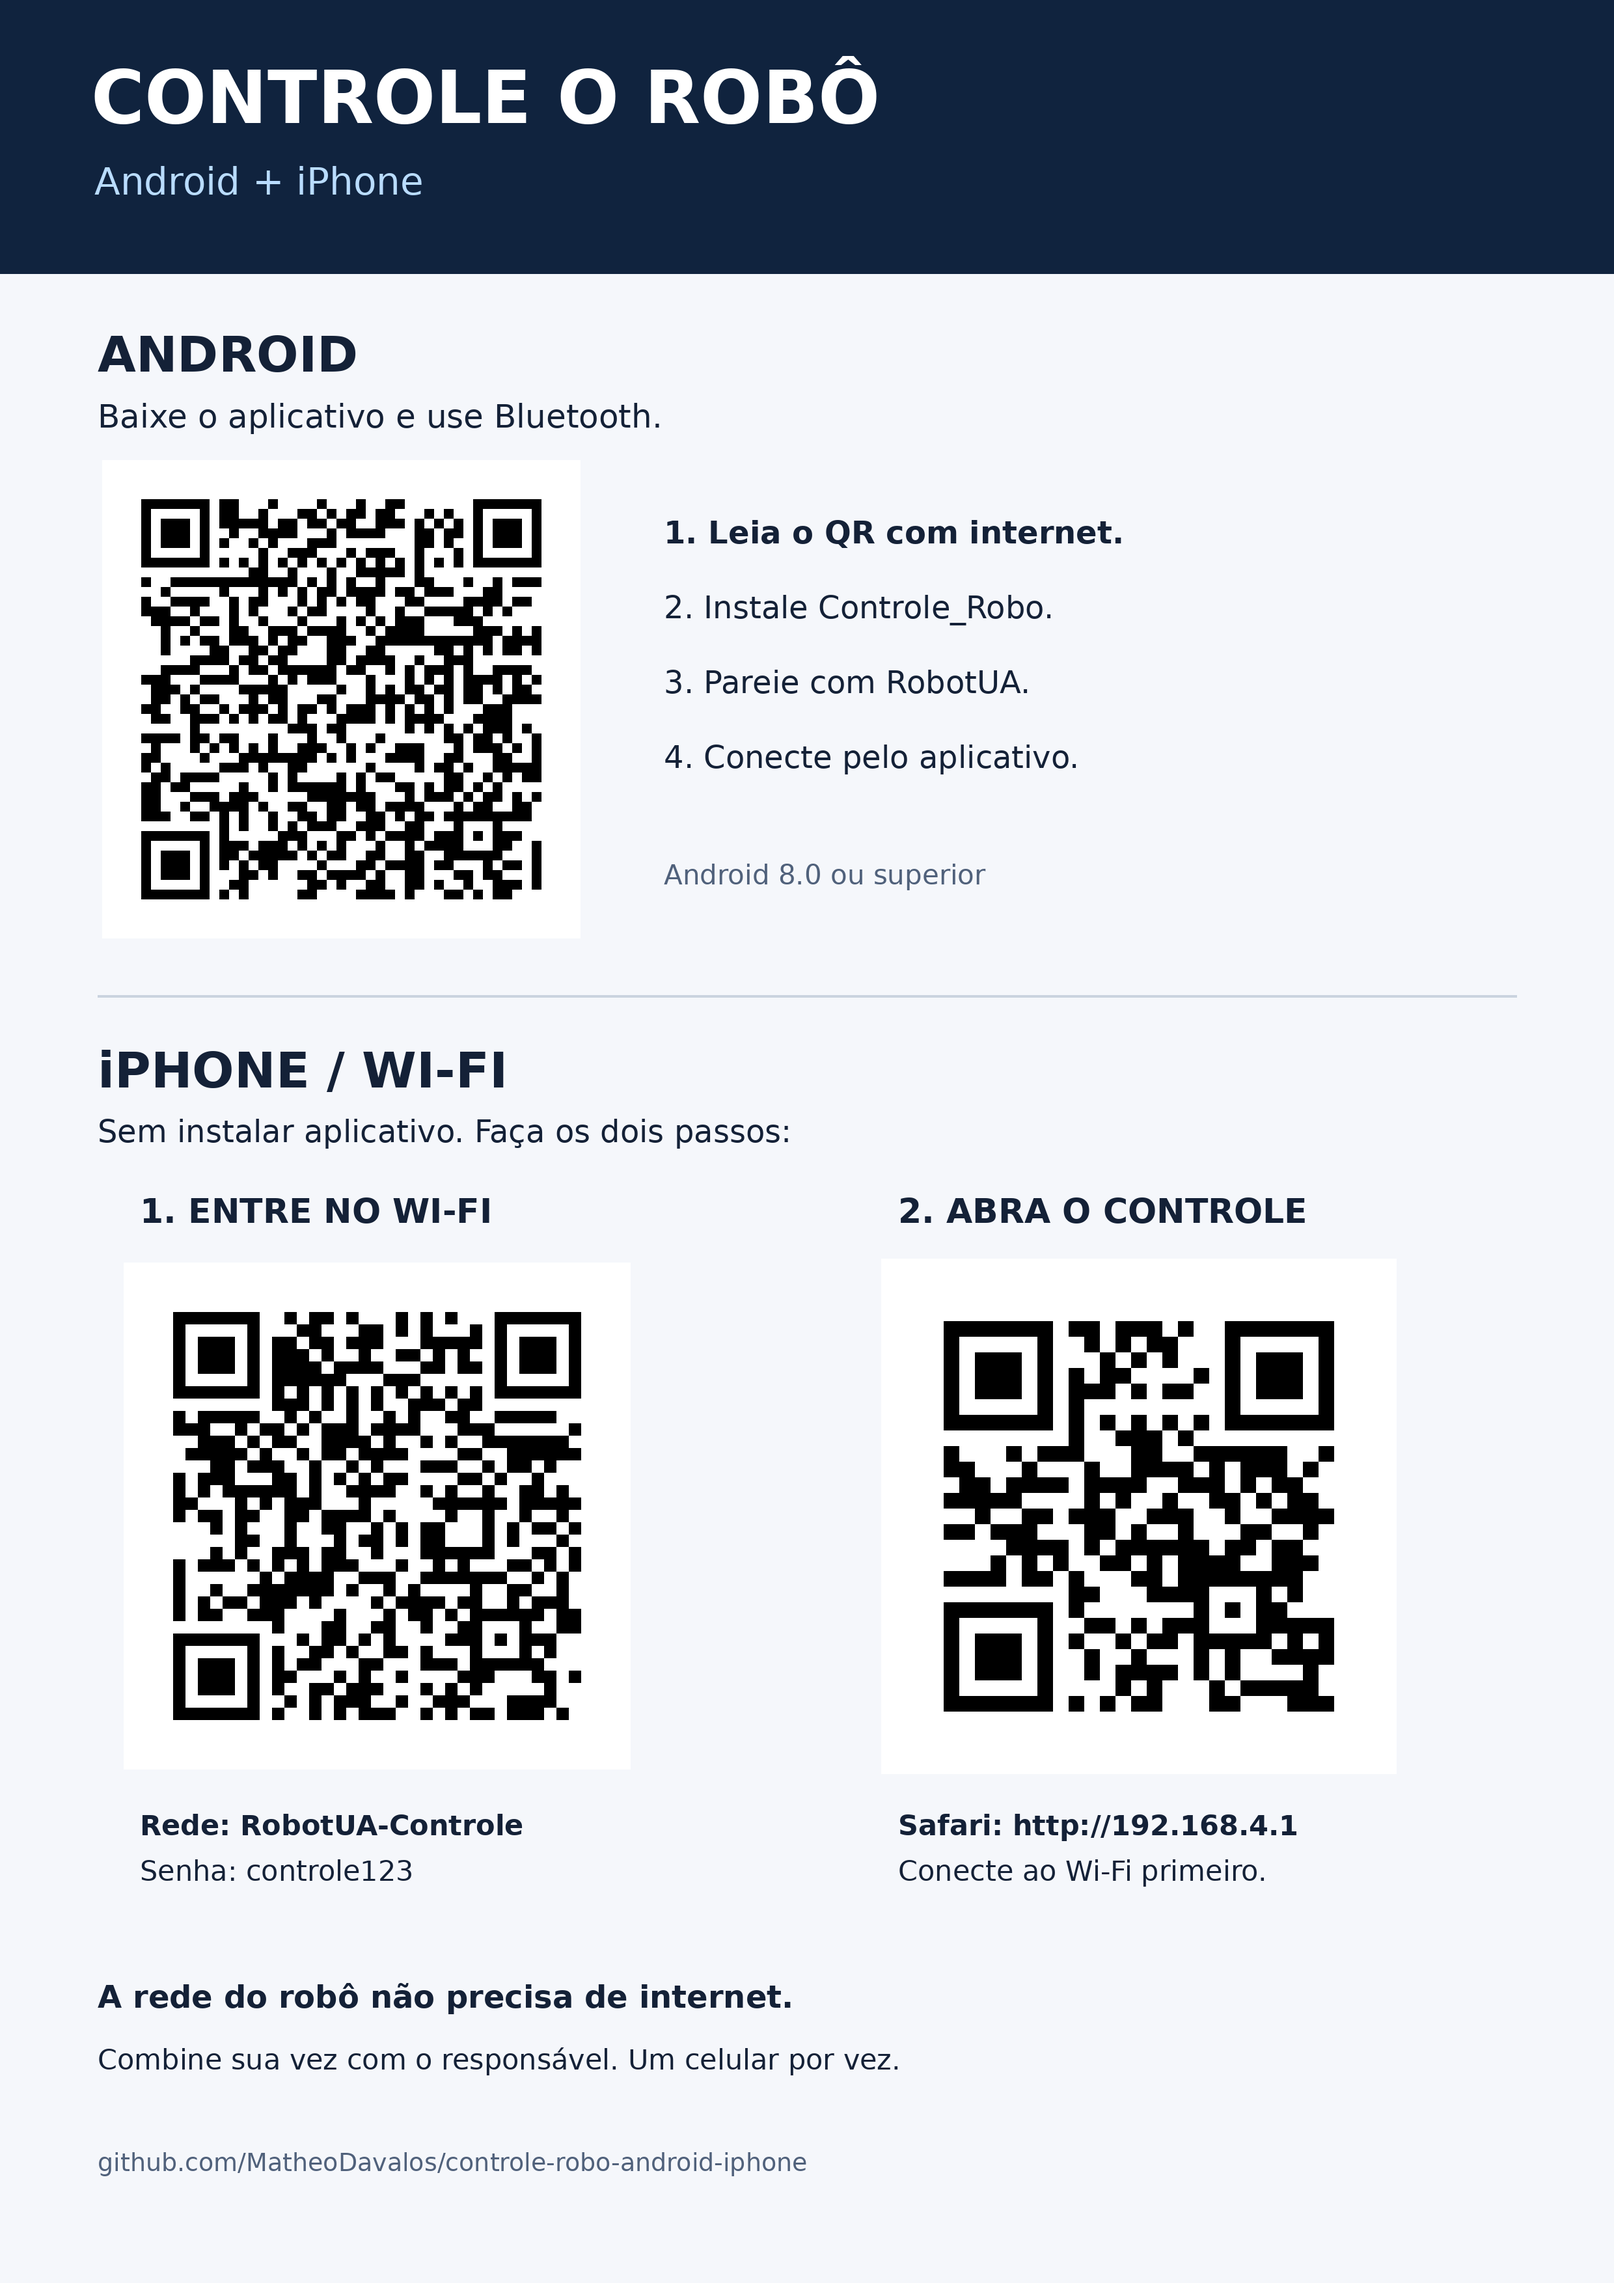
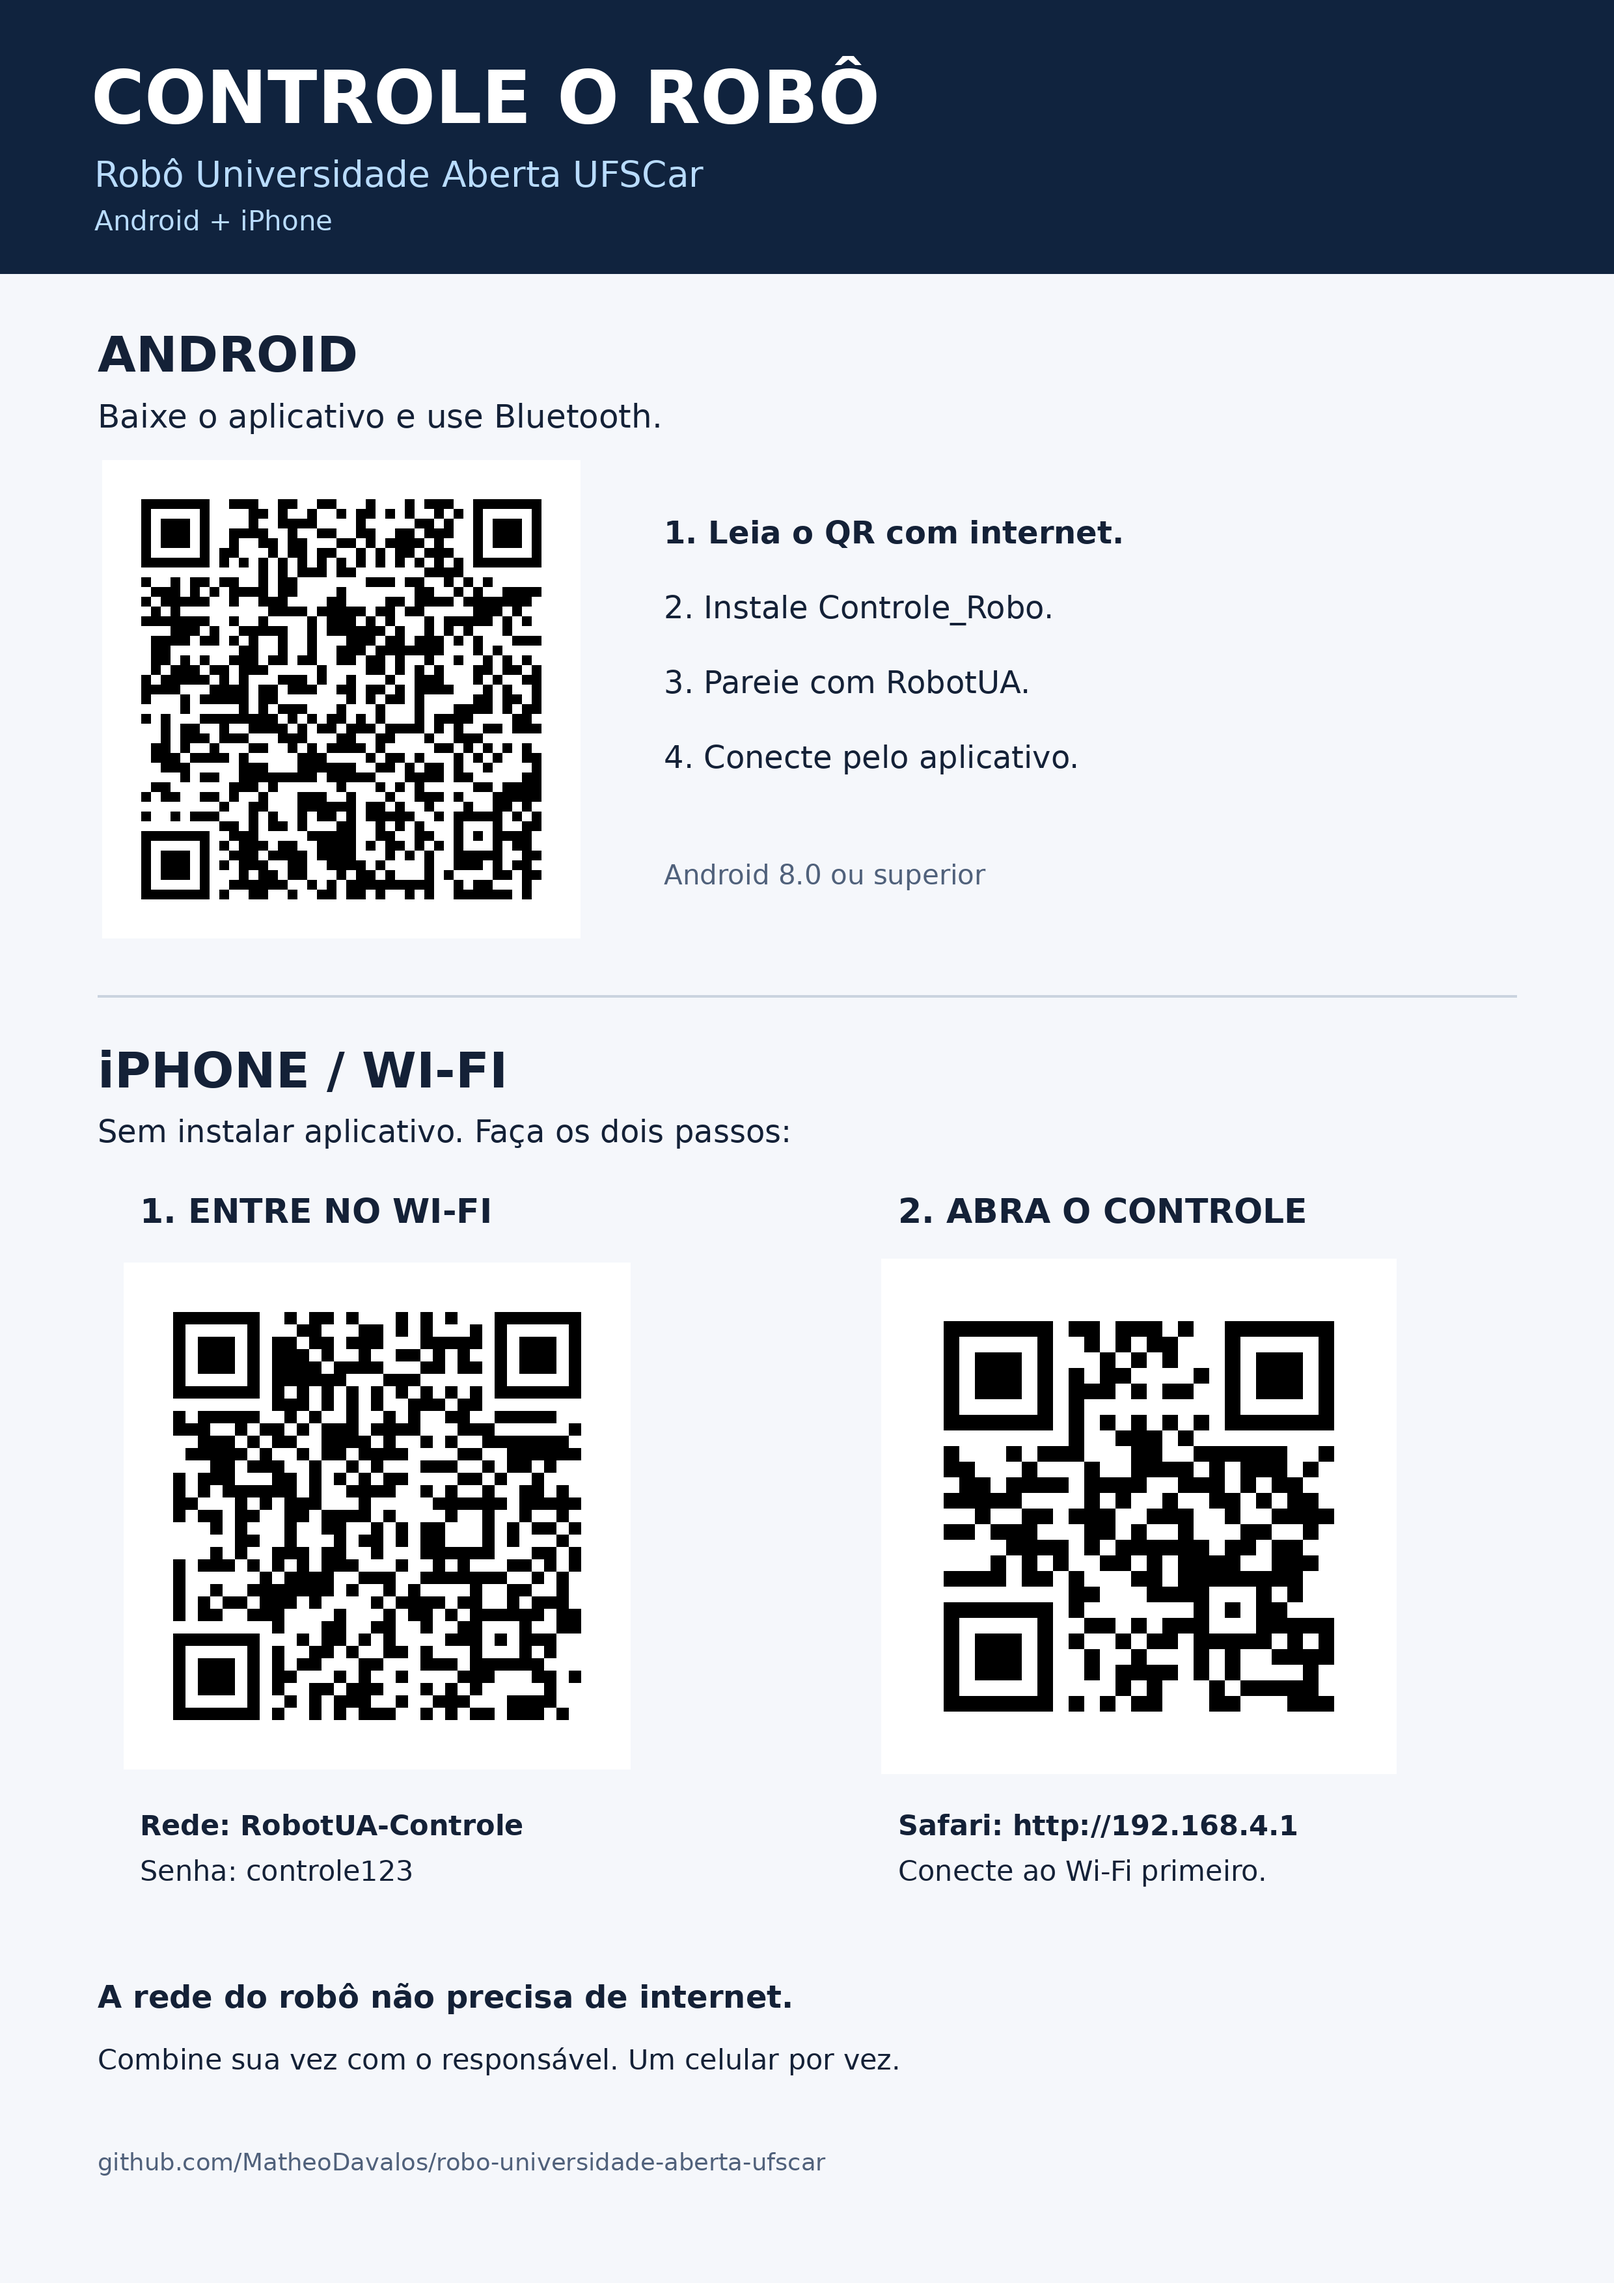
Apresenta Robô Universidade Aberta UFSCar e reorganiza documentação

diff --git a/feira/gerar_material.py b/feira/gerar_material.py
@@ -6,10 +6,10 @@ from PIL import Image, ImageDraw, ImageFont
 
 out = Path(__file__).resolve().parent
 urls = {
-    'qr-android': 'https://github.com/MatheoDavalos/controle-robo-android-iphone/raw/refs/heads/main/apk/Controle_Robo.apk',
+    'qr-android': 'https://github.com/MatheoDavalos/robo-universidade-aberta-ufscar/raw/refs/heads/main/apk/Controle_Robo.apk',
     'qr-wifi': 'WIFI:T:WPA;S:RobotUA-Controle;P:controle123;;',
     'qr-controle-wifi': 'http://192.168.4.1',
-    'qr-repositorio': 'https://github.com/MatheoDavalos/controle-robo-android-iphone',
+    'qr-repositorio': 'https://github.com/MatheoDavalos/robo-universidade-aberta-ufscar',
 }
 codes = {}
 for name, payload in urls.items():
@@ -34,7 +34,8 @@ def paste_qr(name, x, y, limit):
     im.paste(img, (x+(limit-side)//2, y+(limit-side)//2))
 d.rectangle((0,0,2480,420), fill='#10233e')
 text(140,85,'CONTROLE O ROBÔ',112,True,'white')
-text(145,245,'Android + iPhone',58,False,'#b9dcff')
+text(145,235,'Robô Universidade Aberta UFSCar',55,False,'#b9dcff')
+text(145,315,'Android + iPhone',42,False,'#b9dcff')
 text(150,500,'ANDROID',76,True)
 text(150,610,'Baixe o aplicativo e use Bluetooth.',50)
 paste_qr('qr-android',155,705,740)
@@ -56,6 +57,6 @@ text(1380,2780,'Safari: http://192.168.4.1',43,True)
 text(1380,2850,'Conecte ao Wi-Fi primeiro.',43)
 text(150,3040,'A rede do robô não precisa de internet.',48,True)
 text(150,3140,'Combine sua vez com o responsável. Um celular por vez.',43)
-text(150,3300,'github.com/MatheoDavalos/controle-robo-android-iphone',38,False,'#50617b')
+text(150,3300,'github.com/MatheoDavalos/robo-universidade-aberta-ufscar',37,False,'#50617b')
 im.save(out / 'cartaz-feira.png', dpi=(300,300))
 im.resize((707,1000)).save(out / 'cartaz-preview.png')

diff --git a/firmware/HeadController/Head.h b/firmware/HeadController/Head.h
@@ -1,6 +1,6 @@
 /*
 ******************************************************************************************
-  Head   Autor:       Luciano Neris
+  Head
   Version:     V 0.1 
   Processor:   
   Description: This class is intend to 

diff --git a/README.md b/README.md
@@ -1,50 +1,95 @@
-# Controle do Robô
+# Robô Universidade Aberta UFSCar
 
-Projeto de controle de um robô com duas rodas e expressões em matrizes de LEDs, baseado no ESP32-WROOM-32. Integra aplicativo móvel, interface web hospedada no próprio ESP32 e firmware para os motores e a face.
+Projeto de um robô móvel com duas rodas e expressões faciais em matrizes de LEDs, baseado no ESP32-WROOM-32. O repositório reúne o firmware embarcado, o aplicativo móvel, a interface web e a documentação de montagem e validação.
 
-## Funcionalidades
+O funcionamento integra **comunicação → comandos de movimento → aceleração e frenagem → expressões da face**. Os canais Bluetooth e Wi-Fi utilizam o mesmo protocolo de um byte.
 
-- Comunicação por Bluetooth Classic/SPP e Wi-Fi local.
-- Controle de movimento e direção com dois joysticks.
-- Protocolo de comandos de um byte, compartilhado pelos canais de comunicação.
-- Aceleração e frenagem graduais dos servos.
-- Expressões da face associadas ao movimento.
-- Arbitragem entre canais e parada por ausência de comandos.
+## Estrutura do repositório
 
-## Estrutura
+```text
+robo-universidade-aberta-ufscar/
+  README.md
+  THIRD_PARTY_NOTICES.md        # Componentes e licenças de terceiros
+  android/                     # Código-fonte do aplicativo móvel
+  apk/                         # Aplicativo compilado e checksum SHA-256
+  firmware/
+    HeadController/
+      HeadController.ino       # Inicialização, comunicação e tarefas
+      Motion.h                 # Movimento, rampa e timeout
+      ControlArbiter.h         # Arbitragem entre canais
+      WebControl.h             # Interface web hospedada no ESP32
+      Head.h / Head.cpp        # Matrizes e expressões da face
+    libraries/LedController/   # Biblioteca das matrizes MAX7219
+    tests/                     # Testes C++ e simulação das tarefas
+  docs/                        # Hardware, compilação e validação
+  feira/                       # Instruções de uso, cartaz e QR Codes
+```
 
-- `android/`: código-fonte do aplicativo móvel.
-- `apk/`: aplicativo compilado e checksum SHA-256.
-- `firmware/HeadController/`: firmware dos motores, face e interface web.
-- `firmware/libraries/`: biblioteca de controle das matrizes de LEDs.
-- `firmware/tests/`: testes de lógica e simulação das tarefas do firmware.
-- `docs/`: documentação de compilação, hardware e validação.
-- `feira/`: materiais de divulgação e instruções de uso.
+A execução embarcada começa em [`HeadController.ino`](firmware/HeadController/HeadController.ino). Movimento, face, arbitragem e interface web ficam em arquivos separados na mesma pasta do sketch.
 
-## Hardware e compilação
+## Preparação e execução
 
-O projeto utiliza ESP32-WROOM-32 de 4 MB, dois servos de rotação contínua e quatro matrizes de LEDs 8×8 com MAX7219.
+O hardware utiliza um ESP32-WROOM-32 de 4 MB, dois servos de rotação contínua e quatro matrizes de LEDs 8×8 com MAX7219. As conexões e o protocolo estão em [hardware e protocolo](docs/HARDWARE.md).
 
-Abra `firmware/HeadController/HeadController.ino` no Arduino IDE, mantendo todos os arquivos dessa pasta juntos. Selecione **ESP32 Dev Module**, **Flash Size: 4MB**, **Partition Scheme: Huge APP (3MB No OTA/1MB SPIFFS)** e **Flash Mode: DIO**. A partição padrão do perfil DOIT não comporta o firmware com Bluetooth e Wi-Fi.
+1. Instale o suporte ESP32 da Espressif e a biblioteca ESP32Servo no Arduino IDE.
+2. Disponibilize `firmware/libraries/LedController` na pasta de bibliotecas do Sketchbook.
+3. Abra `firmware/HeadController/HeadController.ino`, mantendo os arquivos da pasta juntos.
+4. Selecione **ESP32 Dev Module**, **Flash Size: 4MB**, **Partition Scheme: Huge APP (3MB No OTA/1MB SPIFFS)** e **Flash Mode: DIO**.
+5. Escolha a porta da placa, compile e carregue por USB. O Monitor Serial utiliza **115200 baud**.
 
-Consulte [compilação](docs/COMPILAR.md) e [hardware e protocolo](docs/HARDWARE.md) para dependências, conexões e detalhes técnicos.
+A partição padrão do perfil DOIT reserva aproximadamente 1,31 MB e não comporta o programa com Bluetooth e Wi-Fi. Huge APP reserva 3 MB e não oferece atualização OTA.
 
-## Comunicação
+O aplicativo móvel está em `android/` e utiliza JDK 17 ou 21 e Android SDK 34. Para compilação:
 
-O protocolo codifica o sentido e a velocidade de cada roda em um byte. Bluetooth e interface web encaminham os comandos ao mesmo controlador de movimento. A interface web usa HTTP e é servida pelo ESP32, sem dependência de internet.
+```bash
+cd android
+./gradlew testControleRoboDebugUnitTest assembleControleRoboDebug
+```
 
-A arbitragem distingue os canais Bluetooth, web e serial, mas não diferencia navegadores individuais. A concessão de controle expira após 600 ms sem comandos do canal ativo; o timeout dos motores é de 800 ms. A operação deve ser feita por um controlador de cada vez.
+Dependências e procedimentos completos estão em [compilação](docs/COMPILAR.md).
 
-## Testes e validação
+## Funcionamento e configuração
 
-Execute os testes locais do firmware:
+1. Bluetooth Classic/SPP, interface web ou serial recebem os comandos.
+2. A arbitragem seleciona o canal de controle ativo.
+3. O controlador de movimento interpreta sentido e velocidade de cada roda e aplica as rampas de aceleração e frenagem.
+4. O estado de movimento seleciona a expressão exibida nas matrizes.
+
+A interface web usa HTTP e fica armazenada no ESP32, sem dependência de internet. Os dois joysticks representam movimento e direção; direção sozinha não movimenta o robô.
+
+| Componente | Configuração atual |
+|---|---|
+| Protocolo | Um byte com sentido e velocidade de cada roda |
+| Concessão do canal | Expira após 600 ms sem comandos do canal ativo |
+| Timeout dos motores | Neutro após 800 ms sem comandos aceitos |
+| Aceleração | 200 graus/s no comando dos servos |
+| Frenagem | 400 graus/s no comando dos servos |
+| Face | Dois olhos e duas matrizes para a boca |
+
+As taxas dos servos são parâmetros de comando, não medições de velocidade física do robô. A configuração está nos arquivos `Motion.h`, `ControlArbiter.h` e `HeadController.ino`.
+
+## Testes e limites da validação
+
+Na raiz do repositório:
 
 ```bash
 bash firmware/tests/run.sh
+cd apk
+sha256sum -c SHA256SUMS
 ```
 
-Os testes cobrem movimento, rampa, timeout, expressões da face, recepção e arbitragem. A validação física conjunta de Bluetooth e Wi-Fi permanece pendente. Consulte [validação](docs/VALIDACAO.md) para o histórico e os limites dos testes.
+Os testes locais verificam transições de movimento, rampas, timeout, expressões da face, recepção e arbitragem. Eles não substituem a compilação para ESP32 nem a avaliação dos motores na montagem real.
 
-## Créditos
+- A validação física conjunta de Bluetooth e Wi-Fi permanece pendente.
+- A arbitragem distingue canais, mas não diferencia dois navegadores; a operação deve ser feita por um controlador de cada vez.
+- A interface foi inspecionada no navegador de computador; isso não certifica todos os navegadores móveis.
+- O histórico da versão anterior está separado em [validação](docs/VALIDACAO.md).
 
-Derivado do [controle original](https://github.com/MatheoDavalos/controle-robo). Autoria de Luciano Neris e créditos do projeto preservados nos fontes. Veja [THIRD_PARTY_NOTICES.md](THIRD_PARTY_NOTICES.md).
+## Colaboradores
+
+- [@carolinaasantos](https://github.com/carolinaasantos)
+- [@ncr1701](https://github.com/ncr1701)
+
+## Componentes de terceiros
+
+As bibliotecas e ferramentas distribuídas mantêm suas próprias licenças. Consulte [THIRD_PARTY_NOTICES.md](THIRD_PARTY_NOTICES.md) e os avisos incluídos nos componentes. Não há uma licença geral definida para o conjunto do projeto.

diff --git a/THIRD_PARTY_NOTICES.md b/THIRD_PARTY_NOTICES.md
@@ -1,8 +1,5 @@
-# Créditos e componentes de terceiros
+# Componentes de terceiros
 
-- Head Controller: base de Luciano Neris; cabeçalhos e créditos originais foram
-  mantidos em firmware/HeadController. A escolha de uma licença geral para as
-  contribuições do projeto deve ser feita pelos respectivos autores.
 - LedController 2.0.2 — Noa Sakurajin: código e licença originais preservados em
   firmware/libraries/LedController. Licença declarada pela biblioteca: LGPLv3.
 - ESP32Servo e plataforma Arduino-ESP32: instaladas separadamente pelo usuário;
